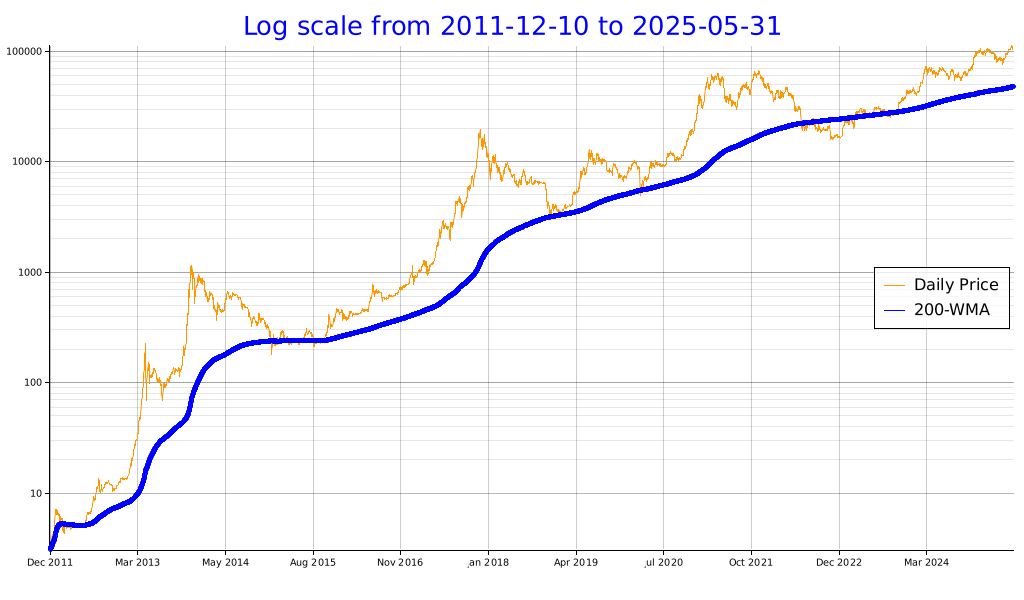
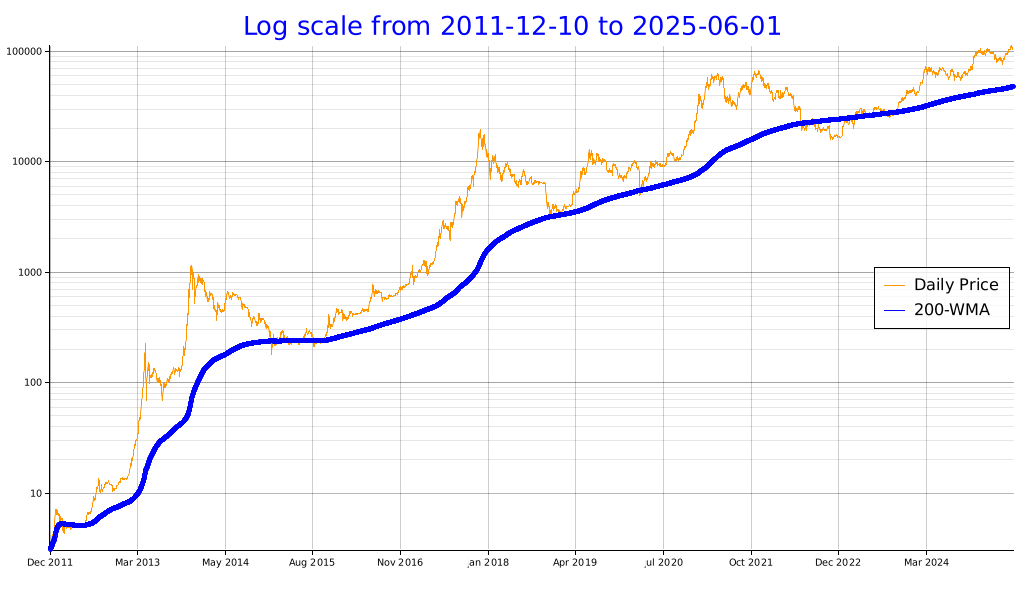
deploy: 32c38bfc33973f71076a7465fb8cd65e6d188ef2

diff --git a/index.html b/index.html
@@ -221,16 +221,16 @@
         </thead>
         <tbody>
           <tr>
-            <td>2025-05-31</td>
-            <td>104,007.58</td>
-            <td>104,910.35</td>
-            <td>103,220.76</td>
-            <td>104,697.19</td>
-            <td class='wma-column'>47,940.51</td>
-            <td>45.05 (0.09 %)</td>
-            <td>63,071.00 (151.5 %)</td>
-            <td>1,689.59 (1.6 %)</td>
-            <td>698.62 (0.6 %)</td>
+            <td>2025-06-01</td>
+            <td>104,644.93</td>
+            <td>104,644.93</td>
+            <td>104,076.39</td>
+            <td>104,162.18</td>
+            <td class='wma-column'>47,940.14</td>
+            <td>44.67 (0.09 %)</td>
+            <td>62,535.99 (150.2 %)</td>
+            <td>568.53 (0.5 %)</td>
+            <td>163.61 (0.1 %)</td>
           </tr>
           <tr>
             <td>2025-05-30</td>
